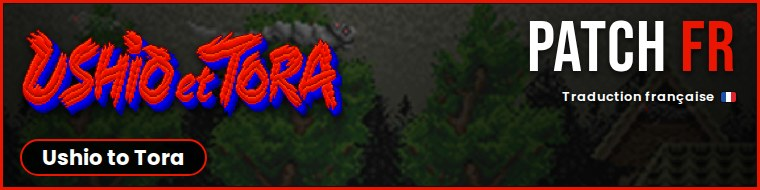
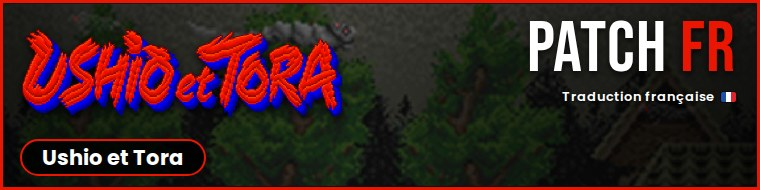
Soutiens : la fiche s'appelle Ushio et Tora
Claude-Session: https://claude.ai/code/session_01QRrHWKq86wcQ5yfnNFzvi1

Changed region(s): [[0.1211, 0.7368, 0.2724, 0.9211]]

diff --git a/index.html b/index.html
@@ -5,7 +5,7 @@
 <meta name="viewport" content="width=device-width, initial-scale=1">
 <title>Sild'arcade — patchs et traductions françaises</title>
 <meta name="description" content="Traductions françaises, doublages, textures et correctifs pour bornes d'arcade et consoles Nintendo, Sony et Sega. Par Sildarul.">
-<link rel="stylesheet" href="style.css?v=202610081759">
+<link rel="stylesheet" href="style.css?v=202610081804">
 <link rel="icon" type="image/png" href="favicon.png">
 <link rel="apple-touch-icon" href="apple-touch-icon.png">
 </head>
@@ -2200,12 +2200,12 @@
       </article>
       <article class="fiche">
         <div class="visuel">
-          <div class="sigle">Ushio to Tora</div>
-          <img class="banniere" src="assets/banner_soutiens_ushio_to_tora.jpg" alt="Ushio to Tora">
+          <div class="sigle">Ushio et Tora</div>
+          <img class="banniere" src="assets/banner_soutiens_ushio_to_tora.jpg" alt="Ushio et Tora">
           <span class="etat soutien">Soutiens</span>
         </div>
         <div class="corps">
-          <h3>Ushio to Tora</h3>
+          <h3>Ushio et Tora</h3>
           <p class="genre">Traduction FR depuis le japonais</p>
           <p class="note">Super Famicom</p>
           <a class="bouton soutien" href="https://ko-fi.com/s/3d0d482cd2" target="_blank" rel="noopener">Débloquer sur Ko-fi</a>
@@ -2888,7 +2888,7 @@
 
 </div>
 
-<script src="projets.js?v=202610081759"></script>
-<script src="site.js?v=202610081759"></script>
+<script src="projets.js?v=202610081804"></script>
+<script src="site.js?v=202610081804"></script>
 </body>
 </html>

diff --git a/soutiens.html b/soutiens.html
@@ -5,7 +5,7 @@
 <meta name="viewport" content="width=device-width, initial-scale=1">
 <title>Pour les soutiens — Sild'arcade</title>
 <meta name="description" content="Des traductions françaises réservées à ceux qui soutiennent Sild'arcade sur Ko-fi.">
-<link rel="stylesheet" href="style.css?v=202610081759">
+<link rel="stylesheet" href="style.css?v=202610081804">
 <link rel="icon" type="image/png" href="favicon.png">
 <link rel="apple-touch-icon" href="apple-touch-icon.png">
 </head>
@@ -122,12 +122,12 @@
       </article>
       <article class="fiche">
         <div class="visuel">
-          <div class="sigle">Ushio to Tora</div>
-          <img class="banniere" src="assets/banner_soutiens_ushio_to_tora.jpg" alt="Ushio to Tora">
+          <div class="sigle">Ushio et Tora</div>
+          <img class="banniere" src="assets/banner_soutiens_ushio_to_tora.jpg" alt="Ushio et Tora">
           <span class="etat soutien">Soutiens</span>
         </div>
         <div class="corps">
-          <h3>Ushio to Tora</h3>
+          <h3>Ushio et Tora</h3>
           <p class="genre">Traduction FR depuis le japonais</p>
           <p class="note">Super Famicom</p>
           <a class="bouton soutien" href="https://ko-fi.com/s/3d0d482cd2" target="_blank" rel="noopener">Débloquer sur Ko-fi</a>
@@ -160,7 +160,7 @@
 
 </div>
 
-<script src="projets.js?v=202610081759"></script>
-<script src="site.js?v=202610081759"></script>
+<script src="projets.js?v=202610081804"></script>
+<script src="site.js?v=202610081804"></script>
 </body>
 </html>

diff --git a/autres-groupes.html b/autres-groupes.html
@@ -5,7 +5,7 @@
 <meta name="viewport" content="width=device-width, initial-scale=1">
 <title>Les VF des autres groupes — Sild'arcade</title>
 <meta name="description" content="Les traductions françaises faites par d'autres groupes (Terminus Traduction, Génération IX, Brutapode89), améliorées par Sild'arcade : passage en 60 Hz, portage, débogage.">
-<link rel="stylesheet" href="style.css?v=202610081759">
+<link rel="stylesheet" href="style.css?v=202610081804">
 <link rel="icon" type="image/png" href="favicon.png">
 <link rel="apple-touch-icon" href="apple-touch-icon.png">
 </head>
@@ -134,7 +134,7 @@
 
 </div>
 
-<script src="projets.js?v=202610081759"></script>
-<script src="site.js?v=202610081759"></script>
+<script src="projets.js?v=202610081804"></script>
+<script src="site.js?v=202610081804"></script>
 </body>
 </html>

diff --git a/nintendo.html b/nintendo.html
@@ -5,7 +5,7 @@
 <meta name="viewport" content="width=device-width, initial-scale=1">
 <title>Nintendo — Sild'arcade</title>
 <meta name="description" content="Traductions françaises pour les consoles Nintendo : NES, Super Nintendo, Nintendo 64, Game Boy, Game Boy Advance, GameCube.">
-<link rel="stylesheet" href="style.css?v=202610081759">
+<link rel="stylesheet" href="style.css?v=202610081804">
 <link rel="icon" type="image/png" href="favicon.png">
 <link rel="apple-touch-icon" href="apple-touch-icon.png">
 </head>
@@ -83,7 +83,7 @@
 
 </div>
 
-<script src="projets.js?v=202610081759"></script>
-<script src="site.js?v=202610081759"></script>
+<script src="projets.js?v=202610081804"></script>
+<script src="site.js?v=202610081804"></script>
 </body>
 </html>

diff --git a/snes.html b/snes.html
@@ -5,7 +5,7 @@
 <meta name="viewport" content="width=device-width, initial-scale=1">
 <title>Super Nintendo et Super Famicom — Sild'arcade</title>
 <meta name="description" content="Traductions françaises pour Super Nintendo et Super Famicom, toujours en 60 Hz. Projet Reset 60.">
-<link rel="stylesheet" href="style.css?v=202610081759">
+<link rel="stylesheet" href="style.css?v=202610081804">
 <link rel="icon" type="image/png" href="favicon.png">
 <link rel="apple-touch-icon" href="apple-touch-icon.png">
 </head>
@@ -539,7 +539,7 @@
 
 </div>
 
-<script src="projets.js?v=202610081759"></script>
-<script src="site.js?v=202610081759"></script>
+<script src="projets.js?v=202610081804"></script>
+<script src="site.js?v=202610081804"></script>
 </body>
 </html>

diff --git a/nes.html b/nes.html
@@ -5,7 +5,7 @@
 <meta name="viewport" content="width=device-width, initial-scale=1">
 <title>NES et Famicom — Sild'arcade</title>
 <meta name="description" content="Traductions françaises pour NES et Famicom, souvent depuis le japonais, toujours en 60 Hz.">
-<link rel="stylesheet" href="style.css?v=202610081759">
+<link rel="stylesheet" href="style.css?v=202610081804">
 <link rel="icon" type="image/png" href="favicon.png">
 <link rel="apple-touch-icon" href="apple-touch-icon.png">
 </head>
@@ -1850,7 +1850,7 @@
 
 </div>
 
-<script src="projets.js?v=202610081759"></script>
-<script src="site.js?v=202610081759"></script>
+<script src="projets.js?v=202610081804"></script>
+<script src="site.js?v=202610081804"></script>
 </body>
 </html>

diff --git a/arcade.html b/arcade.html
@@ -5,7 +5,7 @@
 <meta name="viewport" content="width=device-width, initial-scale=1">
 <title>Arcade — Sild'arcade</title>
 <meta name="description" content="Traductions françaises pour bornes d'arcade : Capcom, SNK, Taito, Konami, Sega.">
-<link rel="stylesheet" href="style.css?v=202610081759">
+<link rel="stylesheet" href="style.css?v=202610081804">
 <link rel="icon" type="image/png" href="favicon.png">
 <link rel="apple-touch-icon" href="apple-touch-icon.png">
 </head>
@@ -369,7 +369,7 @@
 
 </div>
 
-<script src="projets.js?v=202610081759"></script>
-<script src="site.js?v=202610081759"></script>
+<script src="projets.js?v=202610081804"></script>
+<script src="site.js?v=202610081804"></script>
 </body>
 </html>

diff --git a/gb.html b/gb.html
@@ -5,7 +5,7 @@
 <meta name="viewport" content="width=device-width, initial-scale=1">
 <title>Game Boy et Game Boy Color — Sild'arcade</title>
 <meta name="description" content="Traductions françaises pour Game Boy et Game Boy Color.">
-<link rel="stylesheet" href="style.css?v=202610081759">
+<link rel="stylesheet" href="style.css?v=202610081804">
 <link rel="icon" type="image/png" href="favicon.png">
 <link rel="apple-touch-icon" href="apple-touch-icon.png">
 </head>
@@ -67,7 +67,7 @@
 
 </div>
 
-<script src="projets.js?v=202610081759"></script>
-<script src="site.js?v=202610081759"></script>
+<script src="projets.js?v=202610081804"></script>
+<script src="site.js?v=202610081804"></script>
 </body>
 </html>

diff --git a/sony.html b/sony.html
@@ -5,7 +5,7 @@
 <meta name="viewport" content="width=device-width, initial-scale=1">
 <title>Sony — Sild'arcade</title>
 <meta name="description" content="Traductions et doublages français pour PlayStation et PlayStation 2.">
-<link rel="stylesheet" href="style.css?v=202610081759">
+<link rel="stylesheet" href="style.css?v=202610081804">
 <link rel="icon" type="image/png" href="favicon.png">
 <link rel="apple-touch-icon" href="apple-touch-icon.png">
 </head>
@@ -59,7 +59,7 @@
 
 </div>
 
-<script src="projets.js?v=202610081759"></script>
-<script src="site.js?v=202610081759"></script>
+<script src="projets.js?v=202610081804"></script>
+<script src="site.js?v=202610081804"></script>
 </body>
 </html>

diff --git a/ps2.html b/ps2.html
@@ -5,7 +5,7 @@
 <meta name="viewport" content="width=device-width, initial-scale=1">
 <title>PlayStation 2 — Sild'arcade</title>
 <meta name="description" content="Traductions et doublages français pour PlayStation 2.">
-<link rel="stylesheet" href="style.css?v=202610081759">
+<link rel="stylesheet" href="style.css?v=202610081804">
 <link rel="icon" type="image/png" href="favicon.png">
 <link rel="apple-touch-icon" href="apple-touch-icon.png">
 </head>
@@ -80,7 +80,7 @@
 
 </div>
 
-<script src="projets.js?v=202610081759"></script>
-<script src="site.js?v=202610081759"></script>
+<script src="projets.js?v=202610081804"></script>
+<script src="site.js?v=202610081804"></script>
 </body>
 </html>

diff --git a/ps1.html b/ps1.html
@@ -5,7 +5,7 @@
 <meta name="viewport" content="width=device-width, initial-scale=1">
 <title>PlayStation — Sild'arcade</title>
 <meta name="description" content="Traductions françaises pour la première PlayStation.">
-<link rel="stylesheet" href="style.css?v=202610081759">
+<link rel="stylesheet" href="style.css?v=202610081804">
 <link rel="icon" type="image/png" href="favicon.png">
 <link rel="apple-touch-icon" href="apple-touch-icon.png">
 </head>
@@ -55,7 +55,7 @@
 
 </div>
 
-<script src="projets.js?v=202610081759"></script>
-<script src="site.js?v=202610081759"></script>
+<script src="projets.js?v=202610081804"></script>
+<script src="site.js?v=202610081804"></script>
 </body>
 </html>

diff --git a/gba.html b/gba.html
@@ -5,7 +5,7 @@
 <meta name="viewport" content="width=device-width, initial-scale=1">
 <title>Game Boy Advance — Sild'arcade</title>
 <meta name="description" content="Traductions françaises pour Game Boy Advance.">
-<link rel="stylesheet" href="style.css?v=202610081759">
+<link rel="stylesheet" href="style.css?v=202610081804">
 <link rel="icon" type="image/png" href="favicon.png">
 <link rel="apple-touch-icon" href="apple-touch-icon.png">
 </head>
@@ -55,7 +55,7 @@
 
 </div>
 
-<script src="projets.js?v=202610081759"></script>
-<script src="site.js?v=202610081759"></script>
+<script src="projets.js?v=202610081804"></script>
+<script src="site.js?v=202610081804"></script>
 </body>
 </html>
